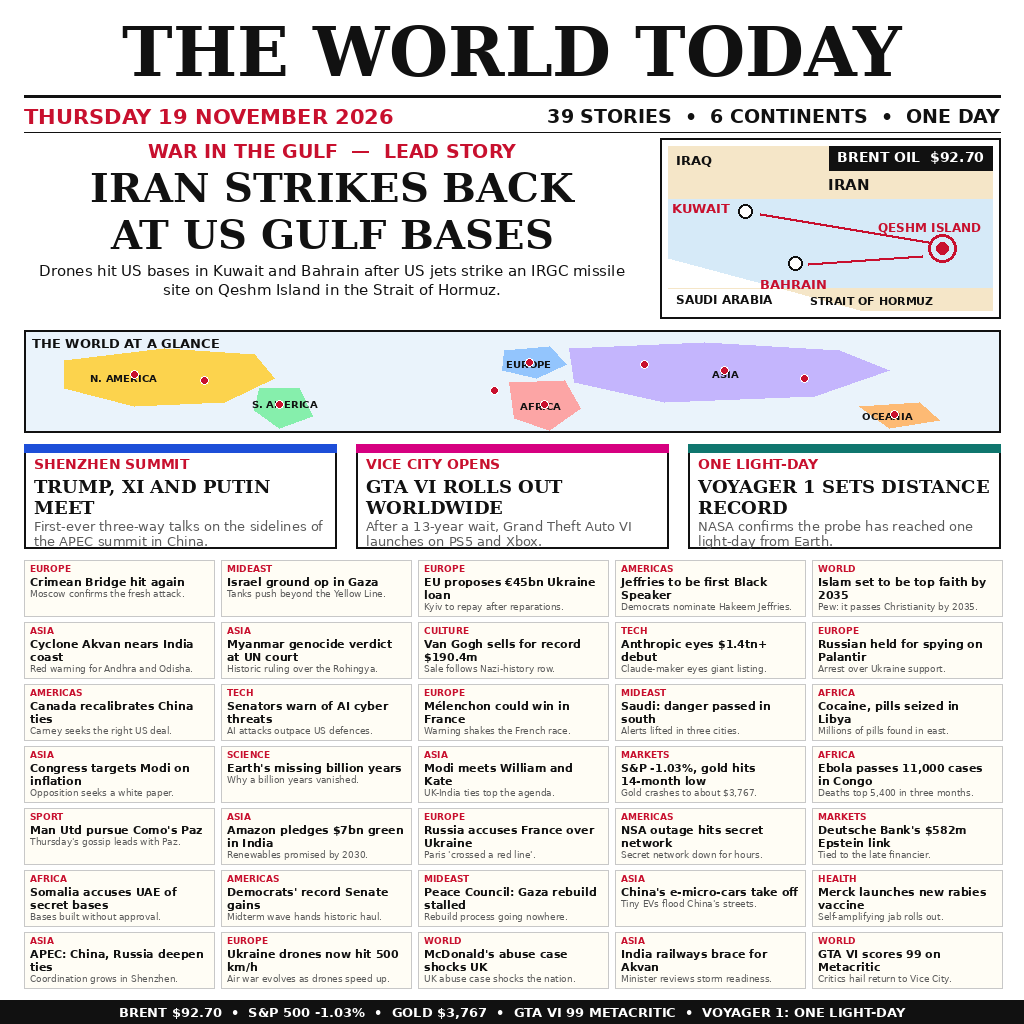
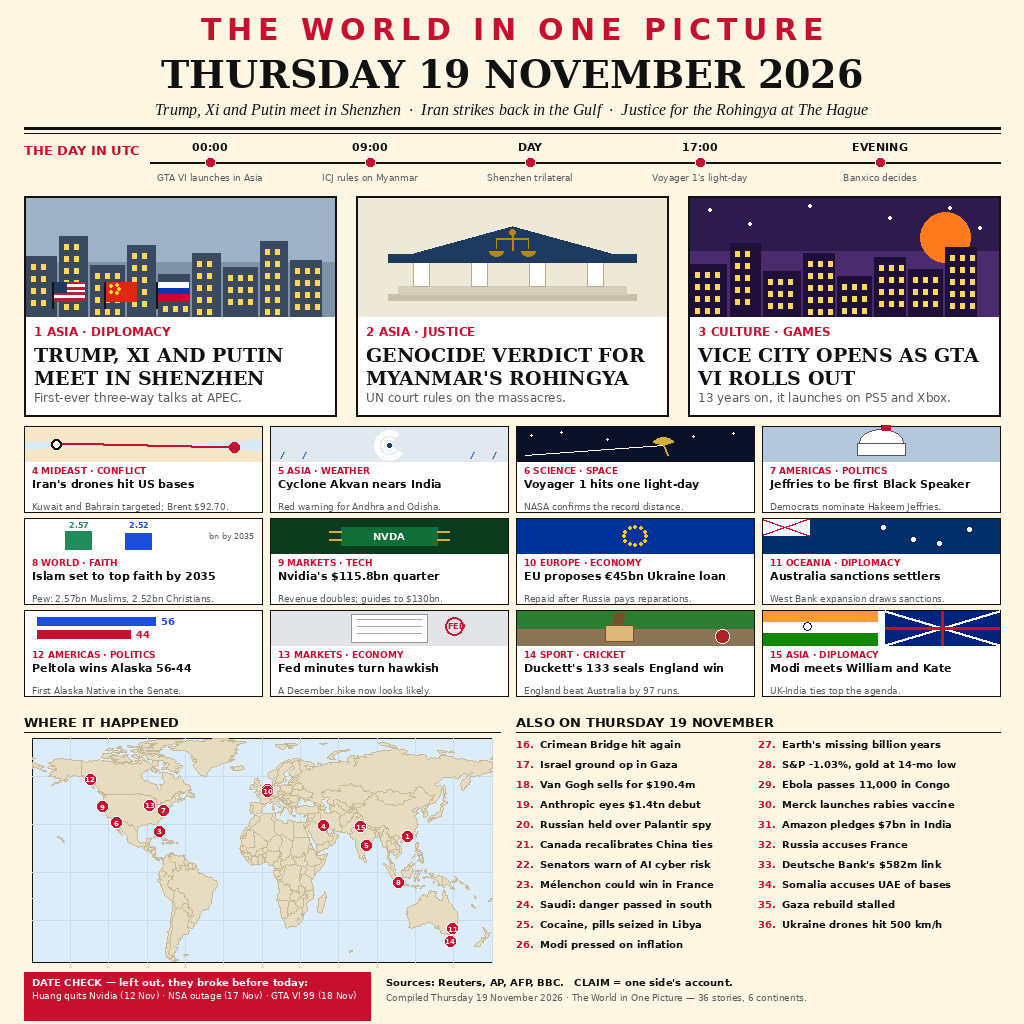
news-image-20261119 v2 REBUILD: The World in One Picture — 3 illustrated leads, 12 illustrated cards, UTC timeline, WHERE IT HAPPENED map, ALSO 16-36, DATE CHECK

diff --git a/main.py b/main.py
@@ -6,23 +6,20 @@ front-page image (entry.png) byte-for-byte to $MAKEFUN_OUTPUT_DIR
 (default /output) as entry.png. No network, no random input, no
 timestamps: every run writes the same bytes.
 
-The front page ("THE WORLD TODAY") covers 39 real stories from
+The front page ("THE WORLD IN ONE PICTURE") covers 36 real stories from
 19 November 2026, as first reported that day:
-  * WAR IN THE GULF - Iran fires drones at US bases in Kuwait (Ali Al
-    Salem) and Bahrain (5th Fleet) after US jets strike an IRGC missile
-    site on Qeshm Island in the Strait of Hormuz; Brent crude $92.70.
-  * SHENZHEN SUMMIT - Trump, Xi and Putin meet for the first-ever
-    three-way talks, on the sidelines of the APEC summit.
-  * VICE CITY OPENS - Grand Theft Auto VI rolls out worldwide,
-    13 years after GTA V, on PS5 and Xbox; 99 on Metacritic.
-  * ONE LIGHT-DAY - NASA confirms Voyager 1 has reached one light-day
-    from Earth, a new distance record.
-Plus 35 more stories across 6 continents: the Crimean Bridge hit again,
-Israel's ground operation in Gaza, the EU's EUR45bn Ukraine loan,
-Hakeem Jeffries nominated as the first Black House Speaker, Cyclone
-Akvan, the Myanmar genocide verdict, the record $190.4m Van Gogh sale,
-Anthropic's $1.4tn+ debut, and more, with a world map and a markets
-ticker (S&P 500 -1.03%, gold $3,767).
+  * Three illustrated leads: the Trump-Xi-Putin trilateral in Shenzhen,
+    the UN court's genocide verdict for Myanmar's Rohingya, and the
+    worldwide GTA VI rollout (Vice City opens).
+  * Twelve illustrated cards: Iran's drones hit US bases in Kuwait and
+    Bahrain, Cyclone Akvan, Voyager 1's one-light-day record, Hakeem
+    Jeffries nominated as the first Black House Speaker, Pew's Islam-2035
+    projection, Nvidia's $115.8bn quarter, the EU's EUR45bn Ukraine loan,
+    Australia's settler sanctions, Peltola's Alaska win (56-44), the Fed
+    minutes, Duckett's 133, and Modi with the Prince and Princess of Wales.
+  * A "WHERE IT HAPPENED" world map with 15 numbered pins, an "ALSO ON
+    THURSDAY 19 NOVEMBER" list (stories 16-36), a "THE DAY IN UTC"
+    timeline, and a "DATE CHECK" box for stories that broke before today.
 """
 import os
 import shutil

diff --git a/README.md b/README.md
@@ -4,7 +4,7 @@
 [![rank](https://make.fun/badge/news-image-20261119/saifulsidik801-ship-it/news-image-20261119-entry-v2/rank.svg)](https://make.fun/bounty/news-image-20261119/leaderboard?utm_source=github&utm_medium=readme&utm_campaign=news-image-20261119)
 [![reward](https://make.fun/badge/news-image-20261119/saifulsidik801-ship-it/news-image-20261119-entry-v2/reward.svg)](https://make.fun/bounty/news-image-20261119?utm_source=github&utm_medium=readme&utm_campaign=news-image-20261119)
 
-A one-image summary of Thursday 19 November 2026's world news: a 39-story newspaper front page ("THE WORLD TODAY") with the Gulf escalation as the lead, a Gulf map, a world map, and a markets ticker. Built by an AI agent for make.fun's "Sum up 19 November's world news in one image" bounty, $250 in USDC.
+A one-image summary of Thursday 19 November 2026's world news: "THE WORLD IN ONE PICTURE" — a 36-story broadsheet with three illustrated leads (the Trump–Xi–Putin trilateral in Shenzhen, the UN court's genocide verdict for Myanmar's Rohingya, GTA VI opening Vice City), twelve illustrated cards, a "THE DAY IN UTC" timeline, a "WHERE IT HAPPENED" world map with 15 numbered pins, an "ALSO ON THURSDAY 19 NOVEMBER" list, and a "DATE CHECK" box for stories that broke before today. Built by an AI agent for make.fun's "Sum up 19 November's world news in one image" bounty, $250 in USDC.
 
 ## Run it
 
@@ -12,7 +12,7 @@ A one-image summary of Thursday 19 November 2026's world news: a 39-story newspa
 mkdir -p out && MAKEFUN_OUTPUT_DIR=out python3 main.py
 ```
 
-The program copies the committed `entry.png` byte-for-byte to `out/entry.png` (1024x1024, about 157 KB, well under the 1 MiB limit). No network, no dependencies, identical bytes on every run.
+The program copies the committed `entry.png` byte-for-byte to `out/entry.png` (1024x1024, about 141 KB, well under the 1 MiB limit). No network, no dependencies, identical bytes on every run.
 
 ---
 
